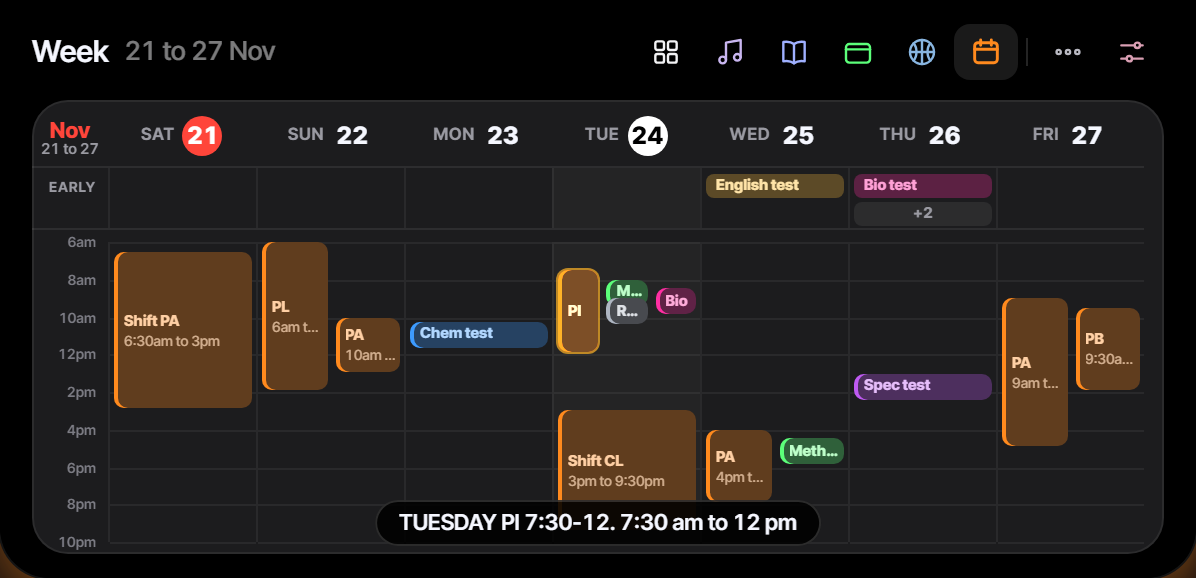
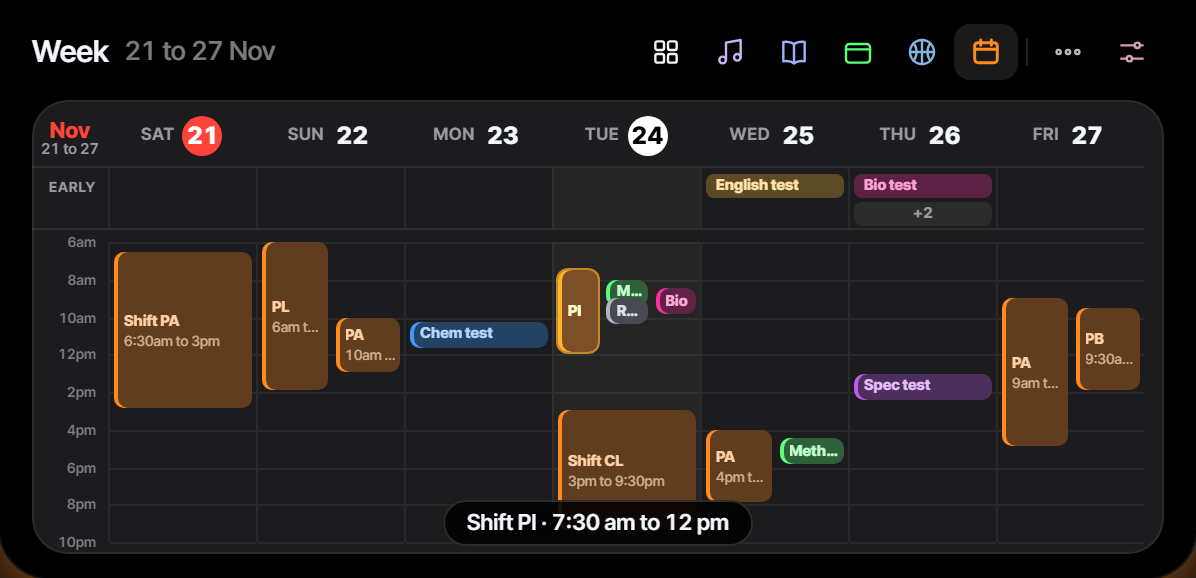
Week tab: tapped event reads "Shift PI · 7:30 am to 12 pm"

Changed region(s): [[0.3094, 0.8408, 0.6806, 0.9654]]

diff --git a/src/panels/week.ts b/src/panels/week.ts
@@ -133,7 +133,7 @@ export function WeekPanel(api: Backend, subscribe: (cb: () => void) => () => voi
       if (Number.isFinite(i)) select(i)
       root.querySelectorAll('.calEv.sel').forEach((x) => x.classList.remove('sel'))
       evEl.classList.add('sel')
-      tip(root, `${ev.title}. ${fmtRange(ev)}`)
+      tip(root, `${ev.label} · ${fmtRange(ev)}`)
       setTimeout(() => evEl.classList.remove('sel'), 2400)
       return
     }
